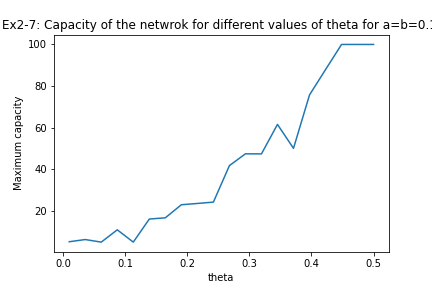
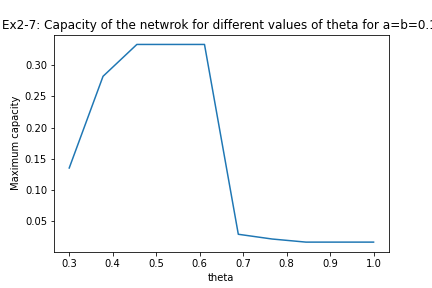
:))))

diff --git a/Part2/Hop-Project-2.py b/Part2/Hop-Project-2.py
@@ -21,6 +21,8 @@ def weight_matrix(n_patterns, N, a, b, patterns):
     cprime=1 / a / (1-a) / N
     for i in range(n_patterns):
         w=w+np.dot(patterns[i]-b, np.transpose(patterns[i]-a))*cprime
+    for i in range(N):
+        w[i,i]=0
     return w
 
 
@@ -57,7 +59,7 @@ def pattern_mean_error(hamming_distance, m_vals, n_runs, flip_rate, N,
     no_patterns=len(m_vals)
     means=np.zeros(no_patterns)
     for i in range(no_patterns):
-        theta = m_vals[i]/(N*2)*opt_theta + (1-opt_theta)*theta_0
+        theta = (1-opt_theta)*theta_0
         net, random_patterns = hop_network(N,m_vals[i],a,b,theta)
         mean_error=0
         for pattern in random_patterns:
@@ -82,13 +84,13 @@ flip_rate = 0.05
 
 def ex2_5():
     mean_error = 0
-    number_runs = 5
+    number_runs = 3
     for i in range(number_runs):
-        mean_error+=pattern_mean_error(hamming_distance, m_vals=m_vals, n_runs=n_runs, N=N, flip_rate=flip_rate, 
+        mean_error=pattern_mean_error(hamming_distance, m_vals=m_vals, n_runs=n_runs, N=N, flip_rate=flip_rate, 
                                        a=a, b=b, opt_theta=1, theta_0=theta)/number_runs
     print(mean_error)
     plt.plot(m_vals, mean_error)
-    plt.title("Ex2-5: Means distances between final state and target pattern.")
+    plt.title("Ex2-5: Means distances between the final state and the target pattern.")
     plt.xlabel("Number of patterns stored in the network")
     plt.ylabel("Error (measured using Hamming distance)")
     plt.savefig("plots/ex2-5.png")
@@ -97,13 +99,16 @@ def ex2_5():
 
 
 def ex2_6():
-    theta_list=np.linspace(0.04, 0.08, num = 10)
+    theta_list=np.linspace(-0.7, 0.7, num = 18)
     capacity=np.zeros(len(theta_list))
+    mean_error=0
     
+
     for i, theta in enumerate(theta_list):
         mean_error=pattern_mean_error(hamming_distance, m_vals=m_vals, n_runs=n_runs, N=N, flip_rate=flip_rate, 
                                       a=a, b=b, opt_theta=0, theta_0=theta)
-        capacity[i] = np.interp(0.05, mean_error, m_vals)
+        capacity[i] = np.interp(0.05, mean_error, m_vals)/N
+
         
     plt.plot(theta_list, capacity)
     plt.title("Ex2-6: Capacity of the netwrok for different values of theta.")
@@ -116,13 +121,15 @@ def ex2_6():
 def ex2_7():
     a = 0.1
     b = 0.1
-    theta_list=np.linspace(0.01, 0.5, num=20)
+    theta_list=np.linspace(0.3, 1, num = 10)
     capacity=np.zeros(len(theta_list))
+    mean_error=0
+    
     
     for i, theta in enumerate(theta_list):
         mean_error=pattern_mean_error(hamming_distance, m_vals=m_vals, n_runs=n_runs, N=N, flip_rate=flip_rate, 
                                       a=a, b=b, opt_theta=0, theta_0=theta)
-        capacity[i] = np.interp(0.05, mean_error, m_vals)
+        capacity[i] = np.interp(0.05, mean_error, m_vals)/N
         
     plt.plot(theta_list, capacity)
     plt.title("Ex2-7: Capacity of the netwrok for different values of theta for a=b=0.1.")
@@ -133,18 +140,20 @@ def ex2_7():
 
 
 def ex2_7_2():
-    a = 0.2
-    b = 0.2
-    theta_list=np.linspace(0.01, 0.5, num=20)
+    a = 0.05
+    b = 0.05
+    theta_list=np.linspace(0.3, 1, num = 10)
     capacity=np.zeros(len(theta_list))
+    mean_error=0
+    
     
     for i, theta in enumerate(theta_list):
         mean_error=pattern_mean_error(hamming_distance, m_vals=m_vals, n_runs=n_runs, N=N, flip_rate=flip_rate, 
                                       a=a, b=b, opt_theta=0, theta_0=theta)
-        capacity[i] = np.interp(0.05, mean_error, m_vals)
+        capacity[i] = np.interp(0.05, mean_error, m_vals)/N
     
     plt.plot(theta_list, capacity)
-    plt.title("Ex2-7: Capacity of the netwrok for different values of theta for a=b=0.2.")
+    plt.title("Ex2-7: Capacity of the netwrok for different values of theta for a=b=0.05.")
     plt.xlabel("theta")
     plt.ylabel("Maximum capacity")
     plt.savefig("plots/ex2-7-2.png")
@@ -153,15 +162,15 @@ def ex2_7_2():
 
 def ex2_8():
     a = 0.1
-    b_list = np.linspace(0.1, 0.9, num=5)
-    theta_list=np.linspace(0.04, 0.08, num=5)
-    capacity=np.zeros([len(theta_list),len(b_list)])
+    b_list = np.linspace(0.1, 0.6, num=4)
+    theta_list=np.linspace(-0.7, 0.7, num=15)
+    capacity=np.zeros([len(b_list),len(theta_list)])
     
     for j, b in enumerate(b_list):
         for i, theta in enumerate(theta_list):
             mean_error=pattern_mean_error(hamming_distance, m_vals=m_vals, n_runs=n_runs, N=N, flip_rate=flip_rate, 
                                           a=a, b=b, opt_theta=0, theta_0=theta)
-            capacity[j,i] = np.interp(0.05, mean_error, m_vals)
+            capacity[j,i] = np.interp(0.05, mean_error, m_vals)/N
     
     plt.figure('Figure 2.8')
     for j, b in enumerate(b_list):
@@ -176,10 +185,9 @@ def ex2_8():
 
 
 
-ex2_5()
-ex2_6()
-ex2_7()
-ex2_7_2()
-ex2_8()
-
+#ex2_5()
+#ex2_6()
+#ex2_7()
+#ex2_7_2()
+#ex2_8()
 
